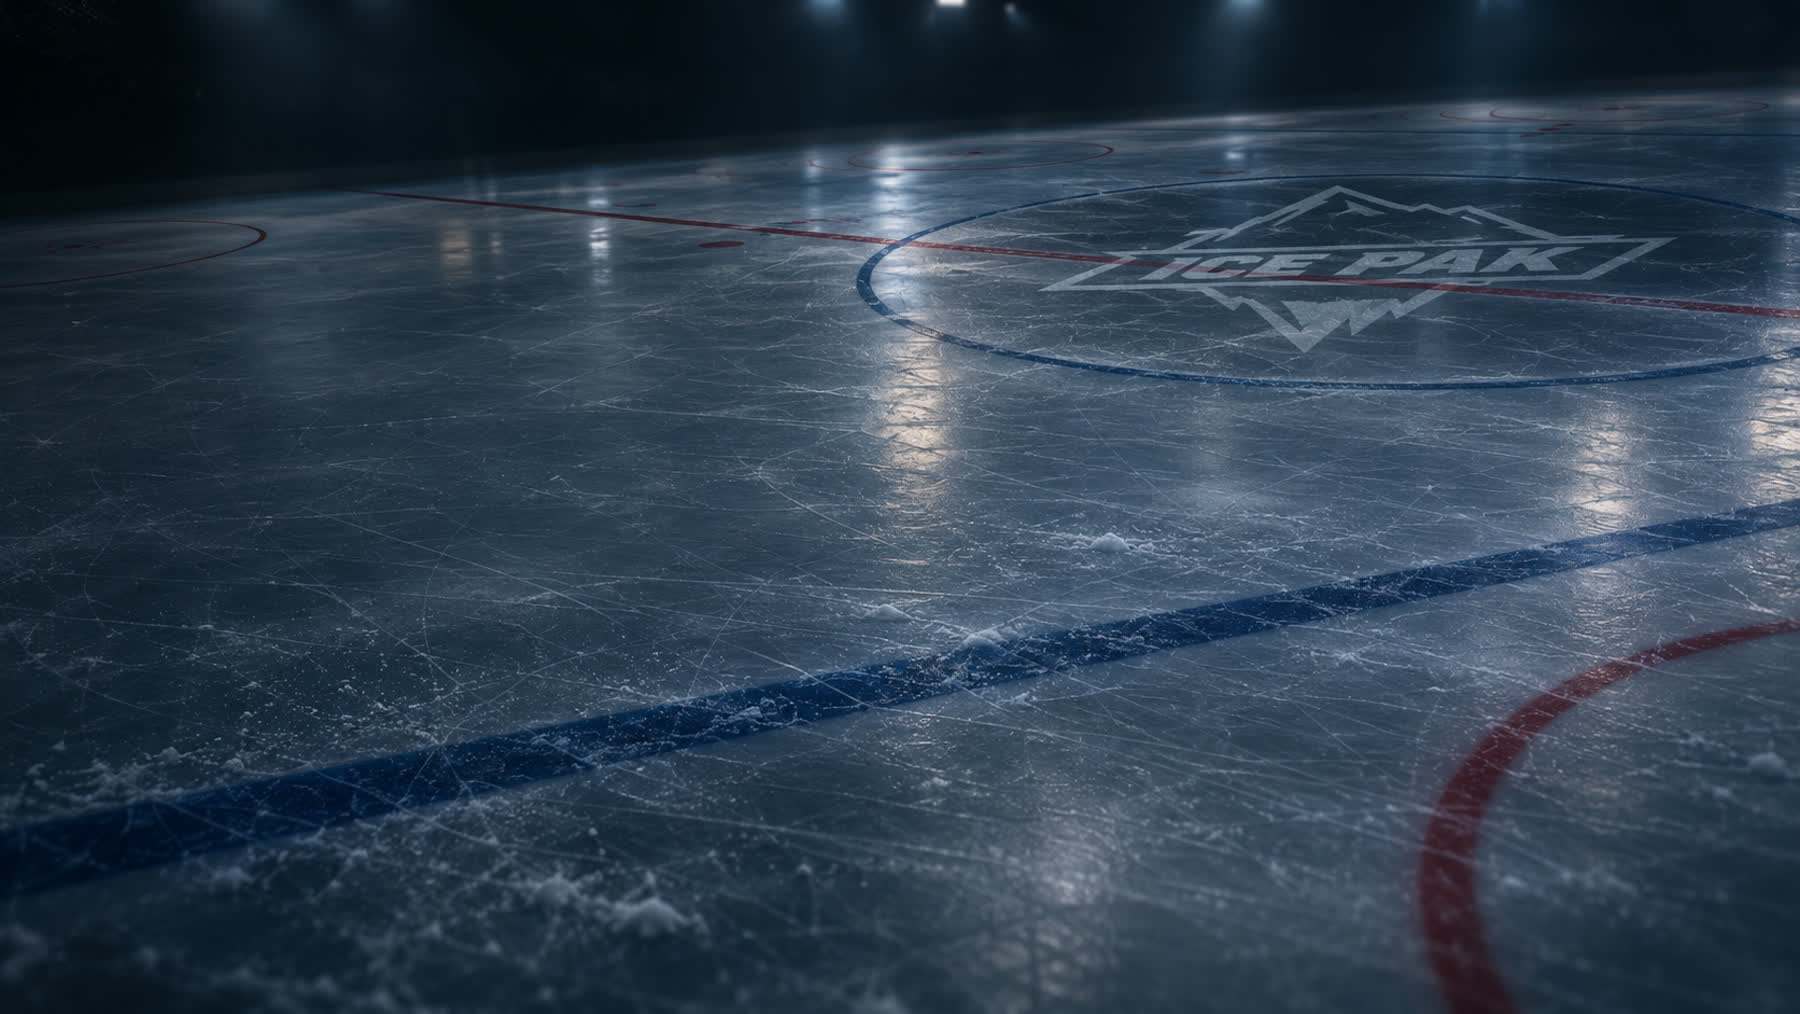
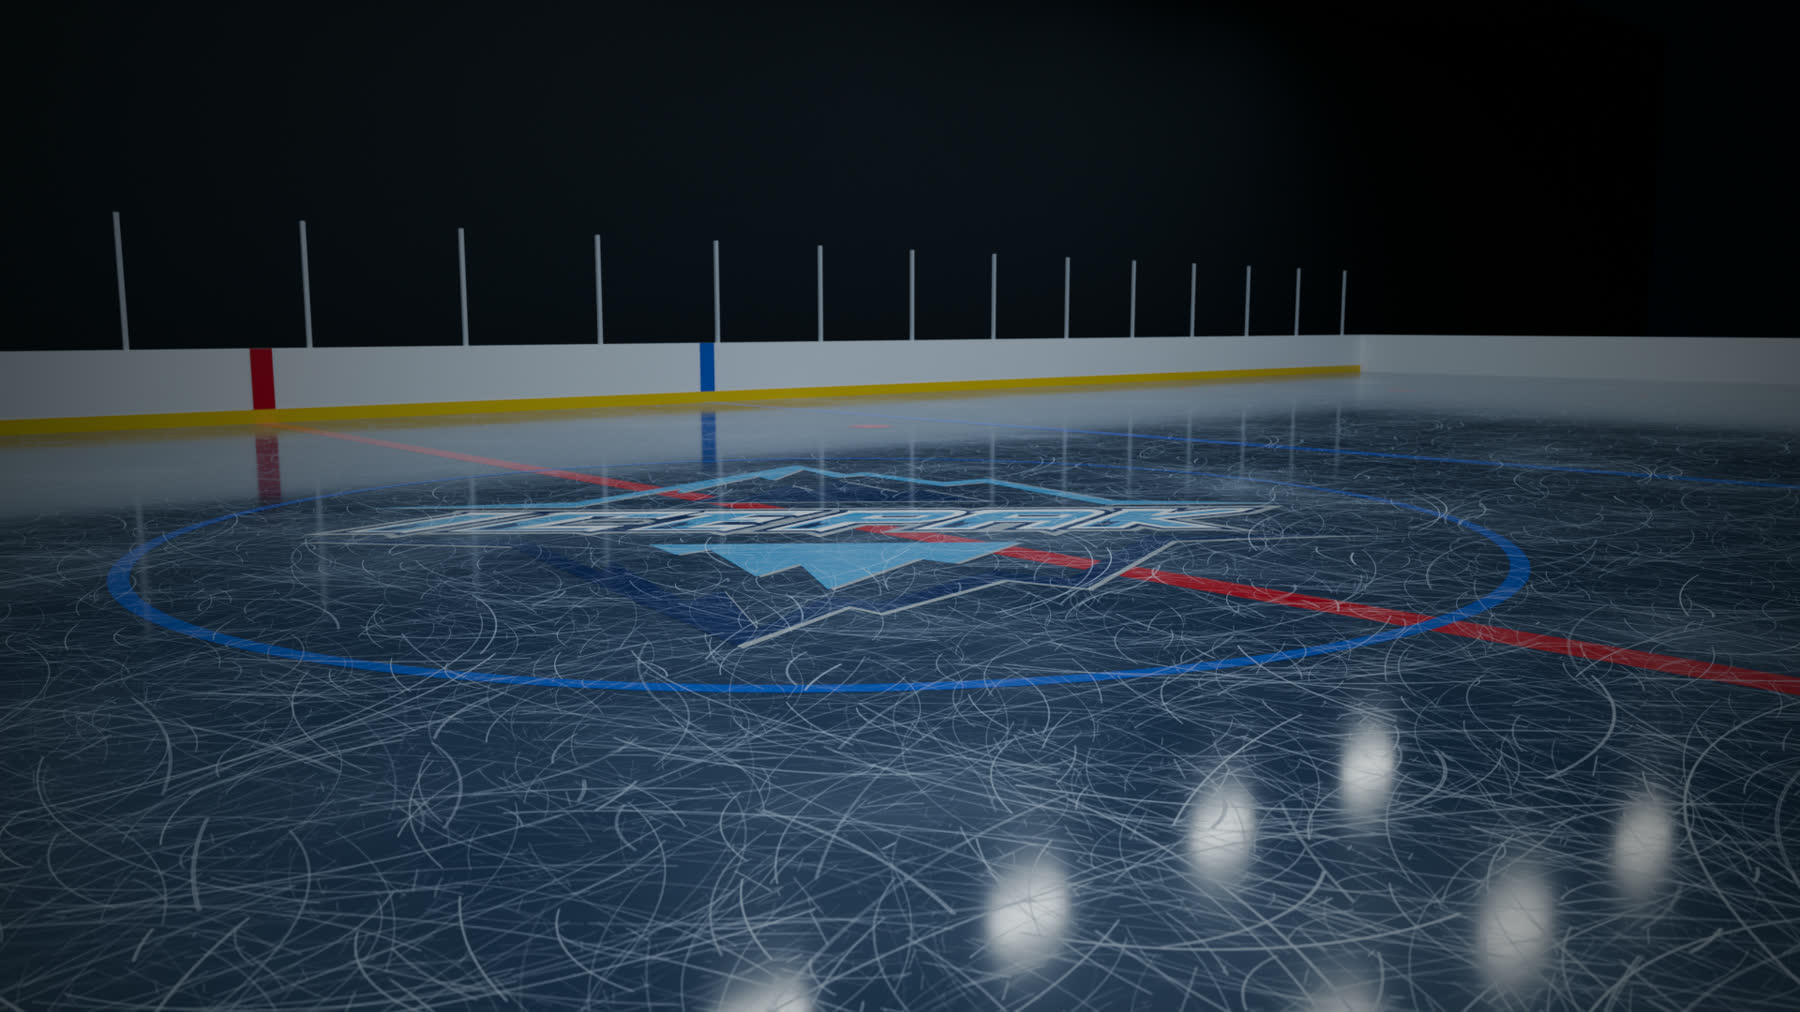
Replace the rink photos with rink renders made for the site
Troy asked for new images in place of his example images. A
Blender script now makes one render for each Theme: a skated rink
with the real Ice Pak crest at centre ice. Home has dark blue ice,
Away has light ice, and Third has black ice with a white crest.
The script is in this folder.

Claude-Session: https://claude.ai/code/session_01LUkgWkMsUGzKFSRMNAicyx

diff --git a/docs/design/mock.css b/docs/design/mock.css
@@ -105,14 +105,14 @@ body {
   -webkit-font-smoothing: antialiased;
 }
 
-/* The rink photo: one photo for each Theme, fixed behind the page. A veil of the ground colour keeps the text clear. */
+/* The rink image: one render for each Theme, fixed behind the page. A veil of the ground colour keeps the text clear. */
 body::before {
   content: "";
   position: fixed;
   inset: 0;
   z-index: 0;
   pointer-events: none;
-  background: var(--veil), url(img/bg-home.jpg) center / cover no-repeat;
+  background: var(--veil), url(img/bg-home.jpg) center 78% / cover no-repeat;
 }
 
 :root[data-theme="away"] body::before {

diff --git a/docs/design/rink-background.py b/docs/design/rink-background.py
@@ -1,0 +1,155 @@
+"""Renders a skated hockey rink with the Ice Pak crest at centre ice. One image for each Theme.
+   Blender -b --factory-startup --python rink.py -- <home|away|third> <out.png> [samples]"""
+import bpy, bmesh, math, sys, os
+import numpy as np
+from mathutils import Vector
+variant, out = sys.argv[sys.argv.index("--") + 1], sys.argv[sys.argv.index("--") + 2]
+samples = int(sys.argv[sys.argv.index("--") + 3]) if len(sys.argv) > sys.argv.index("--") + 3 else 160
+HERE = os.path.dirname(os.path.abspath(__file__))
+V = {
+  "home":  dict(ice=(0.035, 0.055, 0.10), blue=(0.02, 0.10, 0.50), red=(0.55, 0.02, 0.03), scratch=(0.78, 0.87, 1.0), light=75, tint=(0.72, 0.85, 1.0), world=(0.002, 0.004, 0.010),
+                cam=(-6.2, -7.6, 1.45), aim=(0.9, 0.3, 0.0), lens=27, fstop=2.4, crest="crest-navy.png", white=False, rot=-0.69, kw=0.62),
+  "away":  dict(ice=(0.30, 0.36, 0.45), blue=(0.02, 0.12, 0.60), red=(0.70, 0.03, 0.04), scratch=(1.0, 1.0, 1.0), light=150, tint=(1.0, 1.0, 1.0), world=(0.03, 0.035, 0.05),
+                cam=(0.0, -8.6, 0.95), aim=(0.0, 4.0, 0.1), lens=21, fstop=4.0, crest="crest-navy.png", white=False, rot=0.0, kw=0.62),
+  "third": dict(ice=(0.006, 0.006, 0.007), blue=(0.45, 0.45, 0.45), red=(0.60, 0.015, 0.015), scratch=(0.9, 0.9, 0.9), light=80, tint=(1.0, 0.96, 0.93), world=(0.001, 0.001, 0.001),
+                cam=(6.4, -7.4, 1.45), aim=(-0.9, 0.3, 0.0), lens=27, fstop=2.4, crest="crest-third.png", white=True, rot=0.71, kw=0.62),
+}[variant]
+bpy.ops.wm.read_factory_settings(use_empty=True)
+sc = bpy.context.scene
+L, W = 61.0, 26.0
+
+# --- scratch map: blade arcs and short scuffs, drawn with numpy
+def scratch_map(n=2048, seed=57):
+    rng = np.random.default_rng(seed); img = np.zeros((n, n), np.float32)
+    for _ in range(230):
+        r = rng.uniform(0.05, 0.9) * n; a0 = rng.uniform(0, 6.283); span = rng.uniform(0.2, 1.0)
+        cx, cy = rng.uniform(0, n, 2); w = rng.uniform(0.12, 0.9) ** 1.5
+        t = np.linspace(a0 - span / 2, a0 + span / 2, int(r * span * 1.6) + 8)
+        for dr in ([0.0] if rng.random() < 0.5 else [0.0, rng.uniform(1.5, 3.5)]):
+            x = (cx + np.cos(t) * (r + dr)).astype(int) % n; y = (cy + np.sin(t) * (r + dr)).astype(int) % n
+            np.add.at(img, (y, x), w)
+            if rng.random() < 0.12: np.add.at(img, ((y + 1) % n, x), w * 0.8)
+    for _ in range(420):
+        x0, y0 = rng.uniform(0, n, 2); a = rng.uniform(0, 3.1416); ln = rng.uniform(10, 120); w = rng.uniform(0.08, 0.5)
+        t = np.linspace(0, ln, int(ln * 1.5))
+        np.add.at(img, ((y0 + np.sin(a) * t).astype(int) % n, (x0 + np.cos(a) * t).astype(int) % n), w)
+    img = np.clip(img, 0, 1)
+    img = (img * 0.6 + 0.1 * (np.roll(img, 1, 0) + np.roll(img, -1, 0) + np.roll(img, 1, 1) + np.roll(img, -1, 1)))
+    im = bpy.data.images.new("scratch", n, n, alpha=False)
+    px = np.ones((n, n, 4), np.float32); px[..., 0] = px[..., 1] = px[..., 2] = np.clip(img, 0, 1)
+    im.pixels.foreach_set(px.ravel()); im.update()
+    path = os.path.join(HERE, "scratch.png"); im.filepath_raw = path; im.file_format = "PNG"; im.save()
+    print("scratch mean", float(img.mean()), "max", float(img.max()))
+    im2 = bpy.data.images.load(path); im2.colorspace_settings.name = "Non-Color"
+    return im2
+SCR = scratch_map()
+
+def material(name, color=None, image=None, white=False, rough=0.05, kw=0.5):
+    m = bpy.data.materials.new(name); m.use_nodes = True; nt = m.node_tree; nd, lk = nt.nodes, nt.links
+    bsdf = nd["Principled BSDF"]
+    geo = nd.new("ShaderNodeNewGeometry")
+    def layer(scale, rot):
+        mp = nd.new("ShaderNodeMapping"); mp.inputs["Scale"].default_value = (scale, scale, scale); mp.inputs["Rotation"].default_value = (0, 0, rot)
+        tx = nd.new("ShaderNodeTexImage"); tx.image = SCR; lk.new(geo.outputs["Position"], mp.inputs["Vector"]); lk.new(mp.outputs["Vector"], tx.inputs["Vector"])
+        return tx.outputs["Color"]
+    add = nd.new("ShaderNodeMath"); add.operation = "ADD"; add.use_clamp = True
+    lk.new(layer(1 / 4.2, 0.0), add.inputs[0]); lk.new(layer(1 / 1.9, 1.1), add.inputs[1])
+    noise = nd.new("ShaderNodeTexNoise"); noise.inputs["Scale"].default_value = 0.35; noise.inputs["Detail"].default_value = 3
+    lk.new(geo.outputs["Position"], noise.inputs["Vector"])
+    mix = nd.new("ShaderNodeMix"); mix.data_type = "RGBA"; mix.inputs[7].default_value = (*V["scratch"], 1)
+    # frost: wide soft patches where the ice is more worn
+    fr = nd.new("ShaderNodeMath"); fr.operation = "POWER"; fr.inputs[1].default_value = 5.0; lk.new(noise.outputs["Fac"], fr.inputs[0])
+    k = nd.new("ShaderNodeMath"); k.operation = "MULTIPLY_ADD"; k.inputs[1].default_value = kw; lk.new(add.outputs[0], k.inputs[0]); lk.new(fr.outputs[0], k.inputs[2]); k.use_clamp = True
+    lk.new(k.outputs[0], mix.inputs[0])
+    if image:
+        tx = nd.new("ShaderNodeTexImage"); tx.image = bpy.data.images.load(os.path.join(HERE, image)); tx.extension = "CLIP"
+        if white:  # a black drawing on white: the dark parts become white paint
+            inv = nd.new("ShaderNodeMath"); inv.operation = "SUBTRACT"; inv.inputs[0].default_value = 1.0
+            bw = nd.new("ShaderNodeRGBToBW"); lk.new(tx.outputs["Color"], bw.inputs[0]); lk.new(bw.outputs[0], inv.inputs[1])
+            mix.inputs[6].default_value = (0.85, 0.85, 0.85, 1); lk.new(inv.outputs[0], bsdf.inputs["Alpha"])
+        else:
+            lk.new(tx.outputs["Color"], mix.inputs[6]); lk.new(tx.outputs["Alpha"], bsdf.inputs["Alpha"])
+    else:
+        mix.inputs[6].default_value = (*color, 1)
+    lk.new(mix.outputs[2], bsdf.inputs["Base Color"])
+    r1 = nd.new("ShaderNodeMath"); r1.operation = "MULTIPLY_ADD"; r1.inputs[1].default_value = 0.55; r1.inputs[2].default_value = rough; lk.new(add.outputs[0], r1.inputs[0])
+    r2 = nd.new("ShaderNodeMath"); r2.operation = "MULTIPLY_ADD"; r2.inputs[1].default_value = 0.10; lk.new(noise.outputs["Fac"], r2.inputs[0]); lk.new(r1.outputs[0], r2.inputs[2])
+    lk.new(r2.outputs[0], bsdf.inputs["Roughness"])
+    return m
+
+def mesh(name, verts, faces, mat, uvs=None):
+    me = bpy.data.meshes.new(name); me.from_pydata(verts, [], faces); me.materials.append(mat)
+    if uvs:
+        uv = me.uv_layers.new()
+        for i, l in enumerate(me.loops): uv.data[i].uv = uvs[l.vertex_index]
+    ob = bpy.data.objects.new(name, me); sc.collection.objects.link(ob); return ob
+def rect(name, x0, y0, x1, y1, z, mat): return mesh(name, [(x0, y0, z), (x1, y0, z), (x1, y1, z), (x0, y1, z)], [(0, 1, 2, 3)], mat)
+def ring(name, cx, cy, r, w, z, mat, n=96):
+    vs, fs = [], []
+    for i in range(n):
+        a = 2 * math.pi * i / n
+        vs += [(cx + math.cos(a) * (r - w / 2), cy + math.sin(a) * (r - w / 2), z), (cx + math.cos(a) * (r + w / 2), cy + math.sin(a) * (r + w / 2), z)]
+        j = (i + 1) % n; fs.append((2 * i, 2 * i + 1, 2 * j + 1, 2 * j))
+    return mesh(name, vs, fs, mat)
+def disc(name, cx, cy, r, z, mat, n=48):
+    vs = [(cx, cy, z)] + [(cx + math.cos(2 * math.pi * i / n) * r, cy + math.sin(2 * math.pi * i / n) * r, z) for i in range(n)]
+    return mesh(name, vs, [(0, 1 + i, 1 + (i + 1) % n) for i in range(n)], mat)
+def box(name, x0, y0, z0, x1, y1, z1, mat):
+    vs = [(x, y, z) for x in (x0, x1) for y in (y0, y1) for z in (z0, z1)]
+    return mesh(name, vs, [(0, 1, 3, 2), (4, 6, 7, 5), (0, 4, 5, 1), (2, 3, 7, 6), (0, 2, 6, 4), (1, 5, 7, 3)], mat)
+
+ICE = material("ice", V["ice"], rough=0.04, kw=V["kw"])
+BLUE = material("blue", V["blue"], rough=0.06, kw=0.55); RED = material("red", V["red"], rough=0.06, kw=0.55)
+rect("ice", -L / 2, -W / 2, L / 2, W / 2, 0, ICE)
+rect("centre", -0.15, -W / 2, 0.15, W / 2, 0.001, RED)
+for x in (-7.62, 7.62): rect("blueline", x - 0.15, -W / 2, x + 0.15, W / 2, 0.001, BLUE)
+for x in (-27.1, 27.1): rect("goal", x - 0.03, -W / 2, x + 0.03, W / 2, 0.001, RED)
+ring("circle", 0, 0, 4.57, 0.11, 0.0015, BLUE)
+for x in (-21.0, 21.0):
+    for y in (-6.7, 6.7): ring("fo", x, y, 4.57, 0.05, 0.001, RED); disc("fod", x, y, 0.3, 0.0012, RED)
+for x in (-6.1, 6.1):
+    for y in (-6.7, 6.7): disc("nd", x, y, 0.3, 0.0012, RED)
+# crest at centre ice, 7.4 m wide, turned to the camera side
+cw = 7.4; ch = cw * (5256 / 5000 if not V["white"] else 1.0)
+CR = material("crest", image=V["crest"], white=V["white"], rough=0.06, kw=0.5)
+c = mesh("crest", [(-cw / 2, -ch / 2, 0.002), (cw / 2, -ch / 2, 0.002), (cw / 2, ch / 2, 0.002), (-cw / 2, ch / 2, 0.002)], [(0, 1, 2, 3)], CR, uvs=[(0, 0), (1, 0), (1, 1), (0, 1)])
+c.rotation_euler[2] = V["rot"]
+
+# boards, kick plate, and glass posts
+def plain(name, col, rough=0.5, emit=0.0):
+    m = bpy.data.materials.new(name); m.use_nodes = True; b = m.node_tree.nodes["Principled BSDF"]
+    b.inputs["Base Color"].default_value = (*col, 1); b.inputs["Roughness"].default_value = rough; return m
+BW = plain("boards", (0.75, 0.77, 0.8) if variant != "third" else (0.05, 0.05, 0.05), 0.35); KP = plain("kick", (0.8, 0.55, 0.05) if variant != "third" else (0.5, 0.02, 0.02), 0.4)
+PO = plain("post", (0.5, 0.52, 0.55), 0.3); DK = plain("dark", (0.01, 0.012, 0.02), 0.9)
+for (x0, y0, x1, y1) in [(-L / 2, W / 2, L / 2, W / 2 + 0.12), (-L / 2, -W / 2 - 0.12, L / 2, -W / 2), (-L / 2 - 0.12, -W / 2, -L / 2, W / 2), (L / 2, -W / 2, L / 2 + 0.12, W / 2)]:
+    box("board", x0, y0, 0, x1, y1, 1.07, BW)
+box("kick", -L / 2, W / 2 - 0.01, 0, L / 2, W / 2, 0.2, KP); box("kick", -L / 2, -W / 2, 0, L / 2, -W / 2 + 0.01, 0.2, KP)
+for i in range(int(L / 2.4) + 1):
+    x = -L / 2 + i * 2.4; box("post", x - 0.03, W / 2 + 0.03, 1.07, x + 0.03, W / 2 + 0.09, 2.9, PO)
+box("redmark", -0.15, W / 2 - 0.012, 0.2, 0.15, W / 2, 1.07, plain("rm", V["red"], 0.4))
+for x in (-7.62, 7.62): box("bluemark", x - 0.15, W / 2 - 0.012, 0.2, x + 0.15, W / 2, 1.07, plain("bm", V["blue"], 0.4))
+box("stands", -L, W / 2 + 3, 0, L, W / 2 + 3.2, 14, DK); box("stands2", -L, -W / 2 - 3.2, 0, L, -W / 2 - 3, 14, DK)
+
+# lights: rows of bright panels over the ice
+em = bpy.data.materials.new("lamp"); em.use_nodes = True; nt = em.node_tree; nt.nodes.clear()
+e = nt.nodes.new("ShaderNodeEmission"); e.inputs["Color"].default_value = (*V["tint"], 1); e.inputs["Strength"].default_value = V["light"]
+o = nt.nodes.new("ShaderNodeOutputMaterial"); nt.links.new(e.outputs[0], o.inputs[0])
+for ix in range(-4, 5):
+    for iy in (-1.5, -0.5, 0.5, 1.5):
+        x, y = ix * 7.0, iy * 7.2
+        mesh("lamp", [(x - 0.9, y - 0.25, 11), (x + 0.9, y - 0.25, 11), (x + 0.9, y + 0.25, 11), (x - 0.9, y + 0.25, 11)], [(3, 2, 1, 0)], em)
+w = bpy.data.worlds.new("w"); w.use_nodes = True; w.node_tree.nodes["Background"].inputs[0].default_value = (*V["world"], 1); sc.world = w
+
+cam = bpy.data.cameras.new("cam"); co = bpy.data.objects.new("cam", cam); sc.collection.objects.link(co); sc.camera = co
+co.location = V["cam"]; d = Vector(V["aim"]) - Vector(V["cam"]); co.rotation_euler = d.to_track_quat("-Z", "Y").to_euler()
+cam.lens = V["lens"]; cam.dof.use_dof = True; cam.dof.focus_distance = (Vector((0, 0, 0)) - Vector(V["cam"])).length * 0.8; cam.dof.aperture_fstop = V["fstop"]; cam.clip_end = 300
+
+sc.render.engine = "CYCLES"; sc.cycles.samples = samples; sc.cycles.use_denoising = True
+try:
+    p = bpy.context.preferences.addons["cycles"].preferences; p.compute_device_type = "METAL"; p.get_devices()
+    for dv in p.devices: dv.use = True
+    sc.cycles.device = "GPU"
+except Exception as ex: print("GPU not set:", ex)
+sc.render.resolution_x, sc.render.resolution_y = 1920, 1080; sc.render.filepath = out; sc.render.image_settings.file_format = "PNG"
+sc.view_settings.look = "AgX - Medium High Contrast"
+bpy.ops.render.render(write_still=True)

diff --git a/docs/design/visual-direction.md b/docs/design/visual-direction.md
@@ -18,7 +18,7 @@ Troy asked for these changes:
 
 ## What changed in the third pass
 
-- **Rink:** the background is a photo of a skated rink with the Ice Pak logo at centre ice. Troy supplied the photos. An earlier version of this pass had a drawn rink, and it is gone.
+- **Rink:** the background is a 3D render of a skated rink with the real Ice Pak crest at centre ice. I made one render for each Theme in Blender, from the example images that Troy supplied. The example images are not in the repo.
 - **Accent colour:** each Theme has its own accent. Home has light blue, Away has dark blue, and Third has white.
 - **Opponent logos:** 17 opponents have their real logo, from the logo folder on the NAS.
 - **Home and away:** the home team is the first row of the score bug, and each row has a "Home" or "Away" label.
@@ -55,7 +55,7 @@ Troy asked for these changes:
 - **Video links and images:** the `nightowls_11082026` and `bluedevils_10252026` game folders on the NAS.
 - **Roster:** `backups/seed-player-bank.sql`, which comes from the Fee Sheet.
 - **Shop products:** the product names in the orders of the Old Site, and two product photos from the NAS.
-- **Rink photos:** Troy pasted four rink images on 2026-11-16. The mockups use two of them, at 1800 px wide: the dark one for Home and Third, and the bright one with the red line for Away. I did not check where the images come from or the rights to them.
+- **Rink images:** `rink-background.py` in this folder makes them with Blender 5.2. The crest in the Home and Away images is `icepak_logo2.png` from the NAS. The crest in the Third image is `img/crest-third.svg` in white. The script needs these two crest files beside it.
 - **Opponent logos:** `Ext. Images/Ice Pak/Logos/` on the NAS, at 112 px. Buzz Light Beer, Dragon Juice, and the 20 Games with an unknown opponent have no logo.
 - **Home and away:** `game_teams` in the HHG database has the side of Ice Pak for 6 Games. The Old Site has no home or away data.
 - The mockups have no emails, no phone numbers, and no Balances.
@@ -129,7 +129,7 @@ Contrast numbers are WCAG contrast ratios. Text needs 4.5. A mark that carries m
 
 `site.css` has `--on-band`, `--on-band-muted`, `--band-rule`, and `--band-button`. The mockups do not use them. Inside the band, `mock.css` sets the usual tokens again (`--ink`, `--frost`, `--accent`, `--rule`, `--panel`, `--panel-2`, `--kit-fill`). Each shared part then works in the band with no special rule. Example: in the Away band, the Ice Pak row of the score bug is white with navy text, as the away jersey.
 
-**Third Theme, dark tones.** `site.css` has blue-grey values for the Third Theme. The mockups change them to neutral values, so the Theme has black, red, and white only: `--ground: #0a0a0a`, `--panel: #151515`, `--panel-2: #212121`, `--rule: #343434`, `--ink: #f5f5f5`, `--frost: #b4b4b4`. The rink photo of this Theme has no colour.
+**Third Theme, dark tones.** `site.css` has blue-grey values for the Third Theme. The mockups change them to neutral values, so the Theme has black, red, and white only: `--ground: #0a0a0a`, `--panel: #151515`, `--panel-2: #212121`, `--rule: #343434`, `--ink: #f5f5f5`, `--frost: #b4b4b4`. The rink image of this Theme has black ice and no blue.
 
 Rules that go with the tokens:
 
@@ -141,9 +141,12 @@ Rules that go with the tokens:
 
 ### Rink background
 
-- `body::before` shows one rink photo, fixed behind the page: `img/bg-home.jpg` (144 kB), `img/bg-away.jpg` (209 kB), and `img/bg-third.jpg` (140 kB).
-- **Third:** the photo is the Home photo with no colour, so the Theme stays black, red, and white.
-- **Veil:** a gradient of the ground colour is over the photo. It is light at the top of the window and heavy at the bottom. The band has a kit-colour gradient that lets the photo show.
+- `body::before` shows one rink image, fixed behind the page: `img/bg-home.jpg` (178 kB), `img/bg-away.jpg` (97 kB), and `img/bg-third.jpg` (196 kB). Each one is 1800 px wide.
+- **Home:** dark blue ice, the navy crest, and a low camera at an angle.
+- **Away:** light ice, the navy crest, and a camera on the red line.
+- **Third:** black ice, a white crest, white lines in place of blue lines, and a red centre line.
+- **Each image:** skate marks, the centre circle, the lines, the boards, and the reflections of the arena lights.
+- **Veil:** a gradient of the ground colour is over the image. It is light at the top of the window and heavy at the bottom. The band has a kit-colour gradient that lets the image show.
 - **Text:** most text is on a card with a solid fill. The section titles and a few lines of small text are on the veil.
 
 ### Page frame
@@ -294,7 +297,7 @@ I did this review myself, as a UX designer would. The first four items are in th
 14. **Recap images.** A Recap thumbnail has the red kit graphics of HHG. It looks the same in the Home and Away Themes. Is that acceptable?
 15. **Opponents with no logo.** Buzz Light Beer and Dragon Juice have no logo file. Do you have these logos?
 16. **Photos.** A Player has initials in place of a photo. Do you want Player photos later?
-17b. **Rink photos.** Are these the final photos? A photo with the logo at centre ice can sit behind text, so the logo is not always clear. Where do the photos come from, and can the site use them?
+17b. **Rink images.** The renders have no arena seats, no glass, and no snow on the ice. Do you want more detail, a different camera angle, or more than one image for each Theme?
 17a. **Jersey design.** I did not find the jersey mockups on the NAS. Which file or folder has them? The drawing needs the real stripes and the real number colours of each Kit.
 
 ### Privacy
